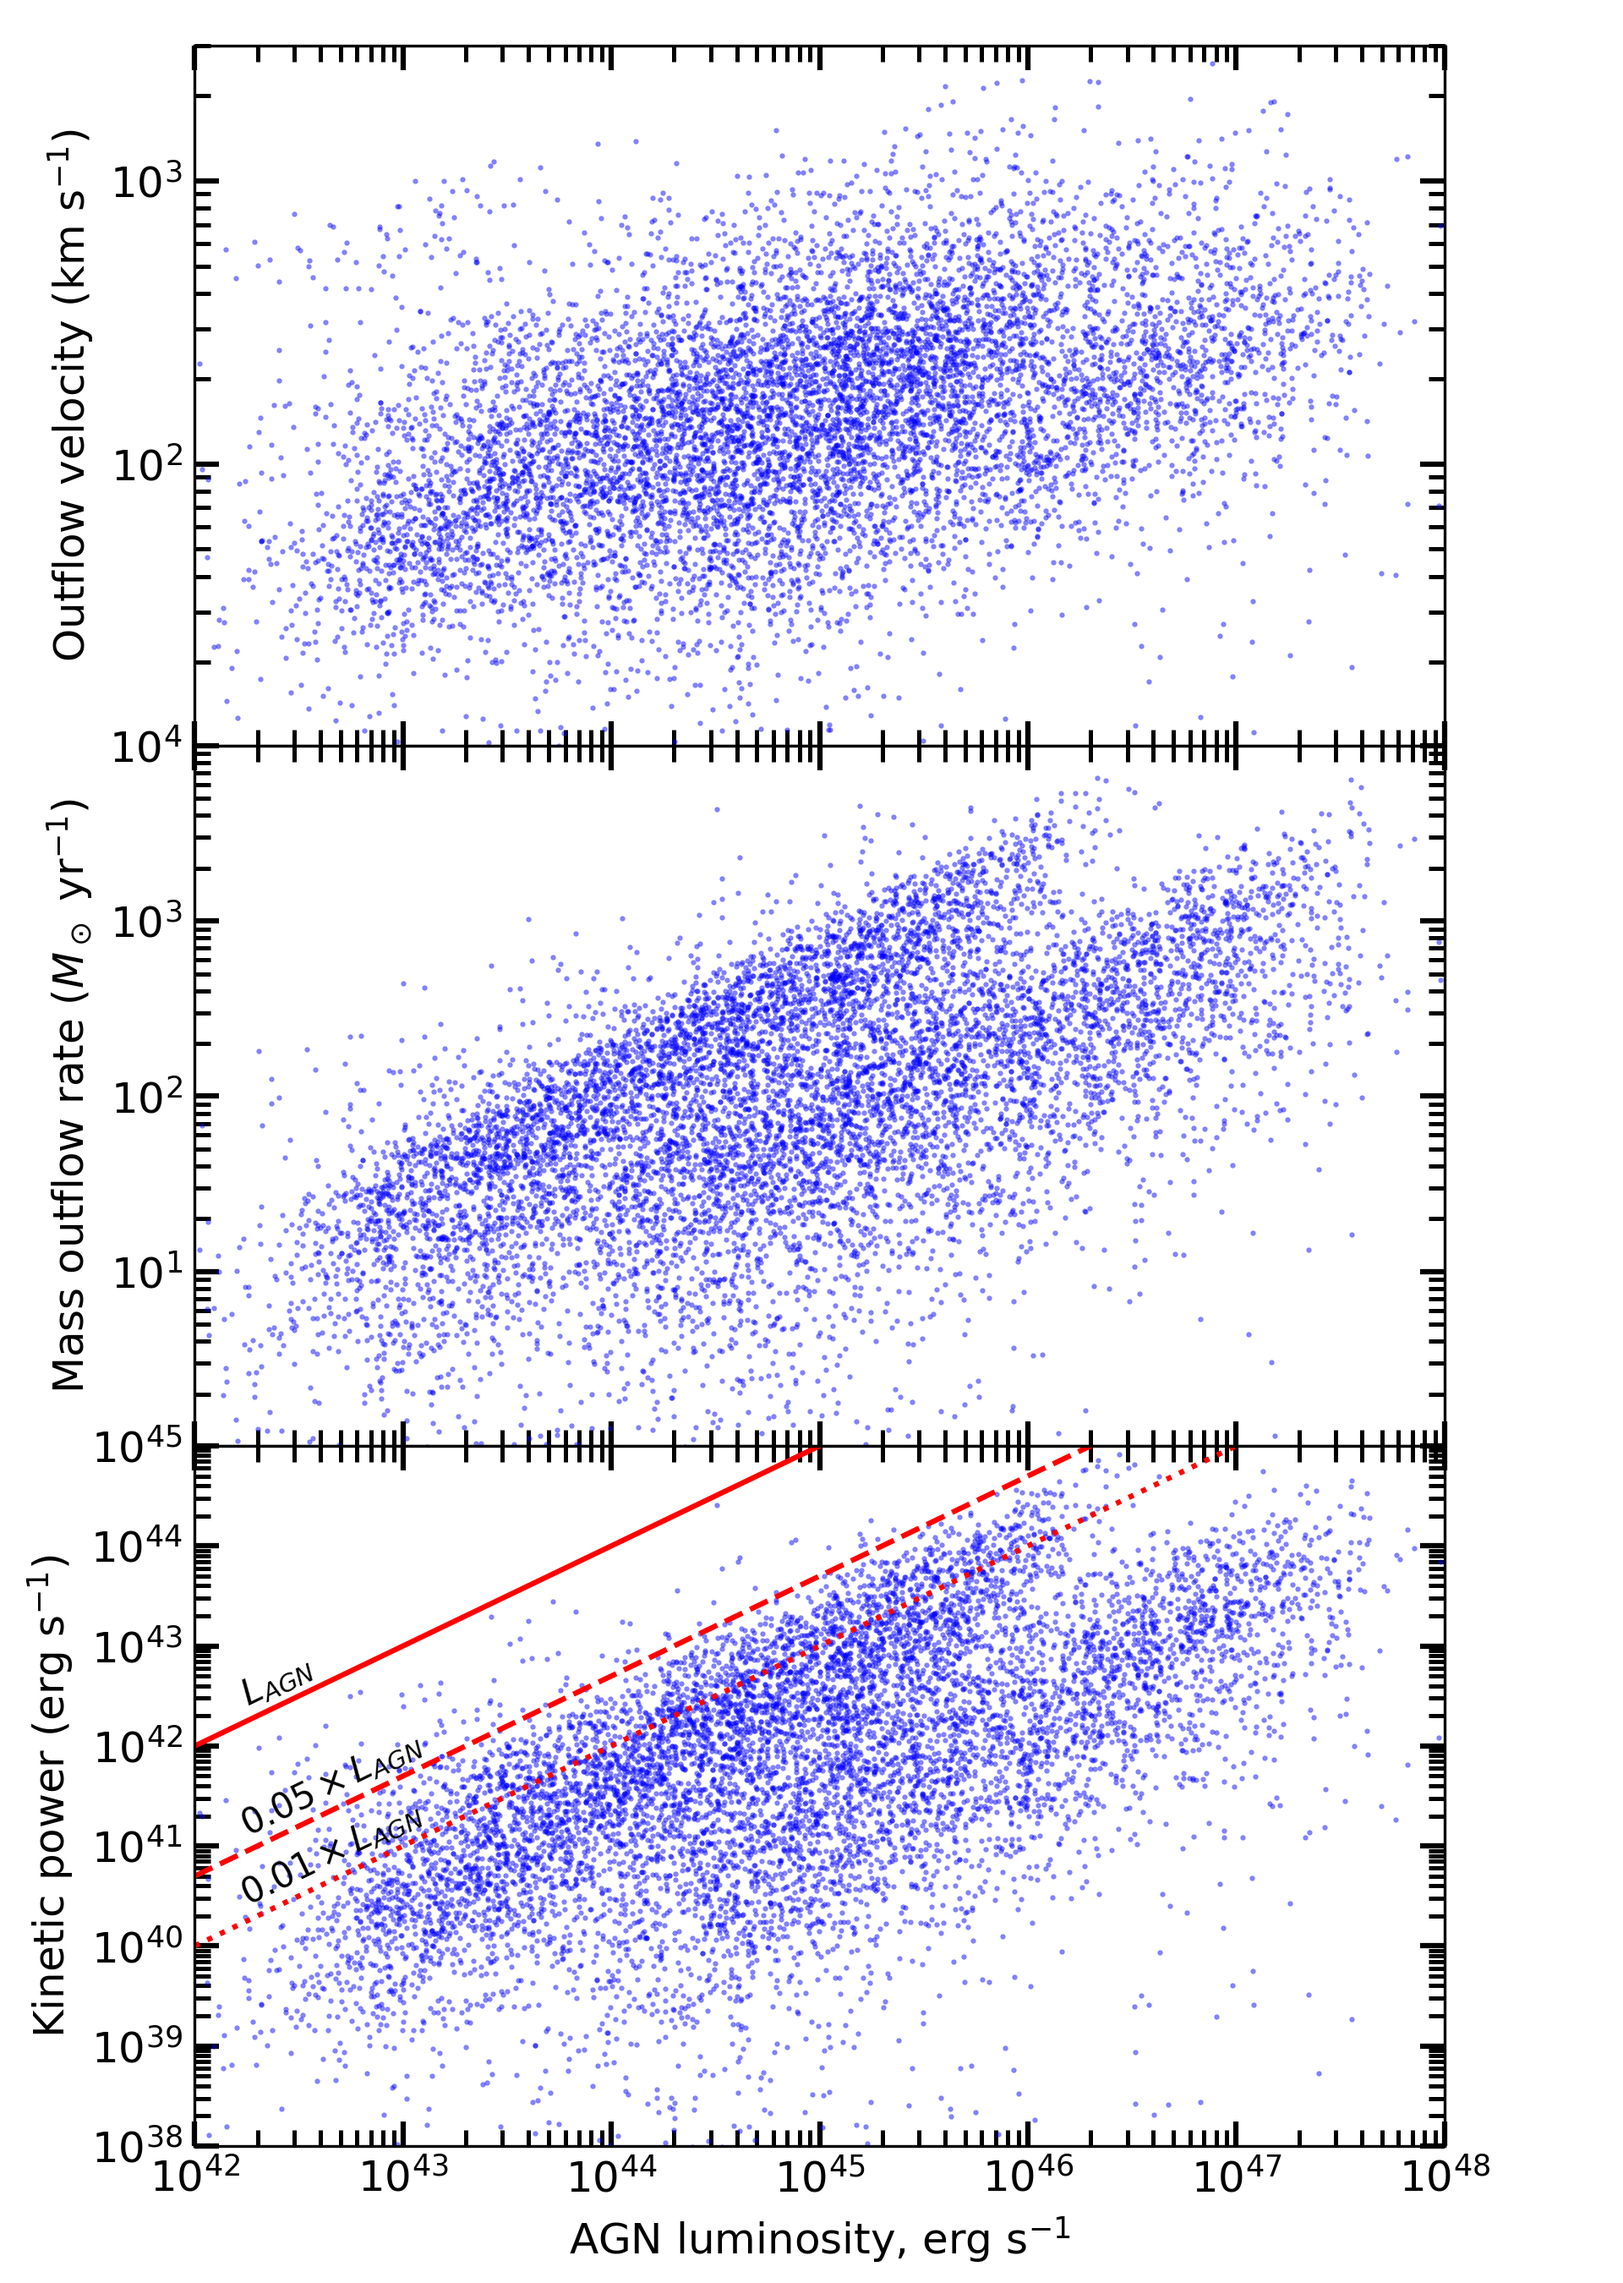
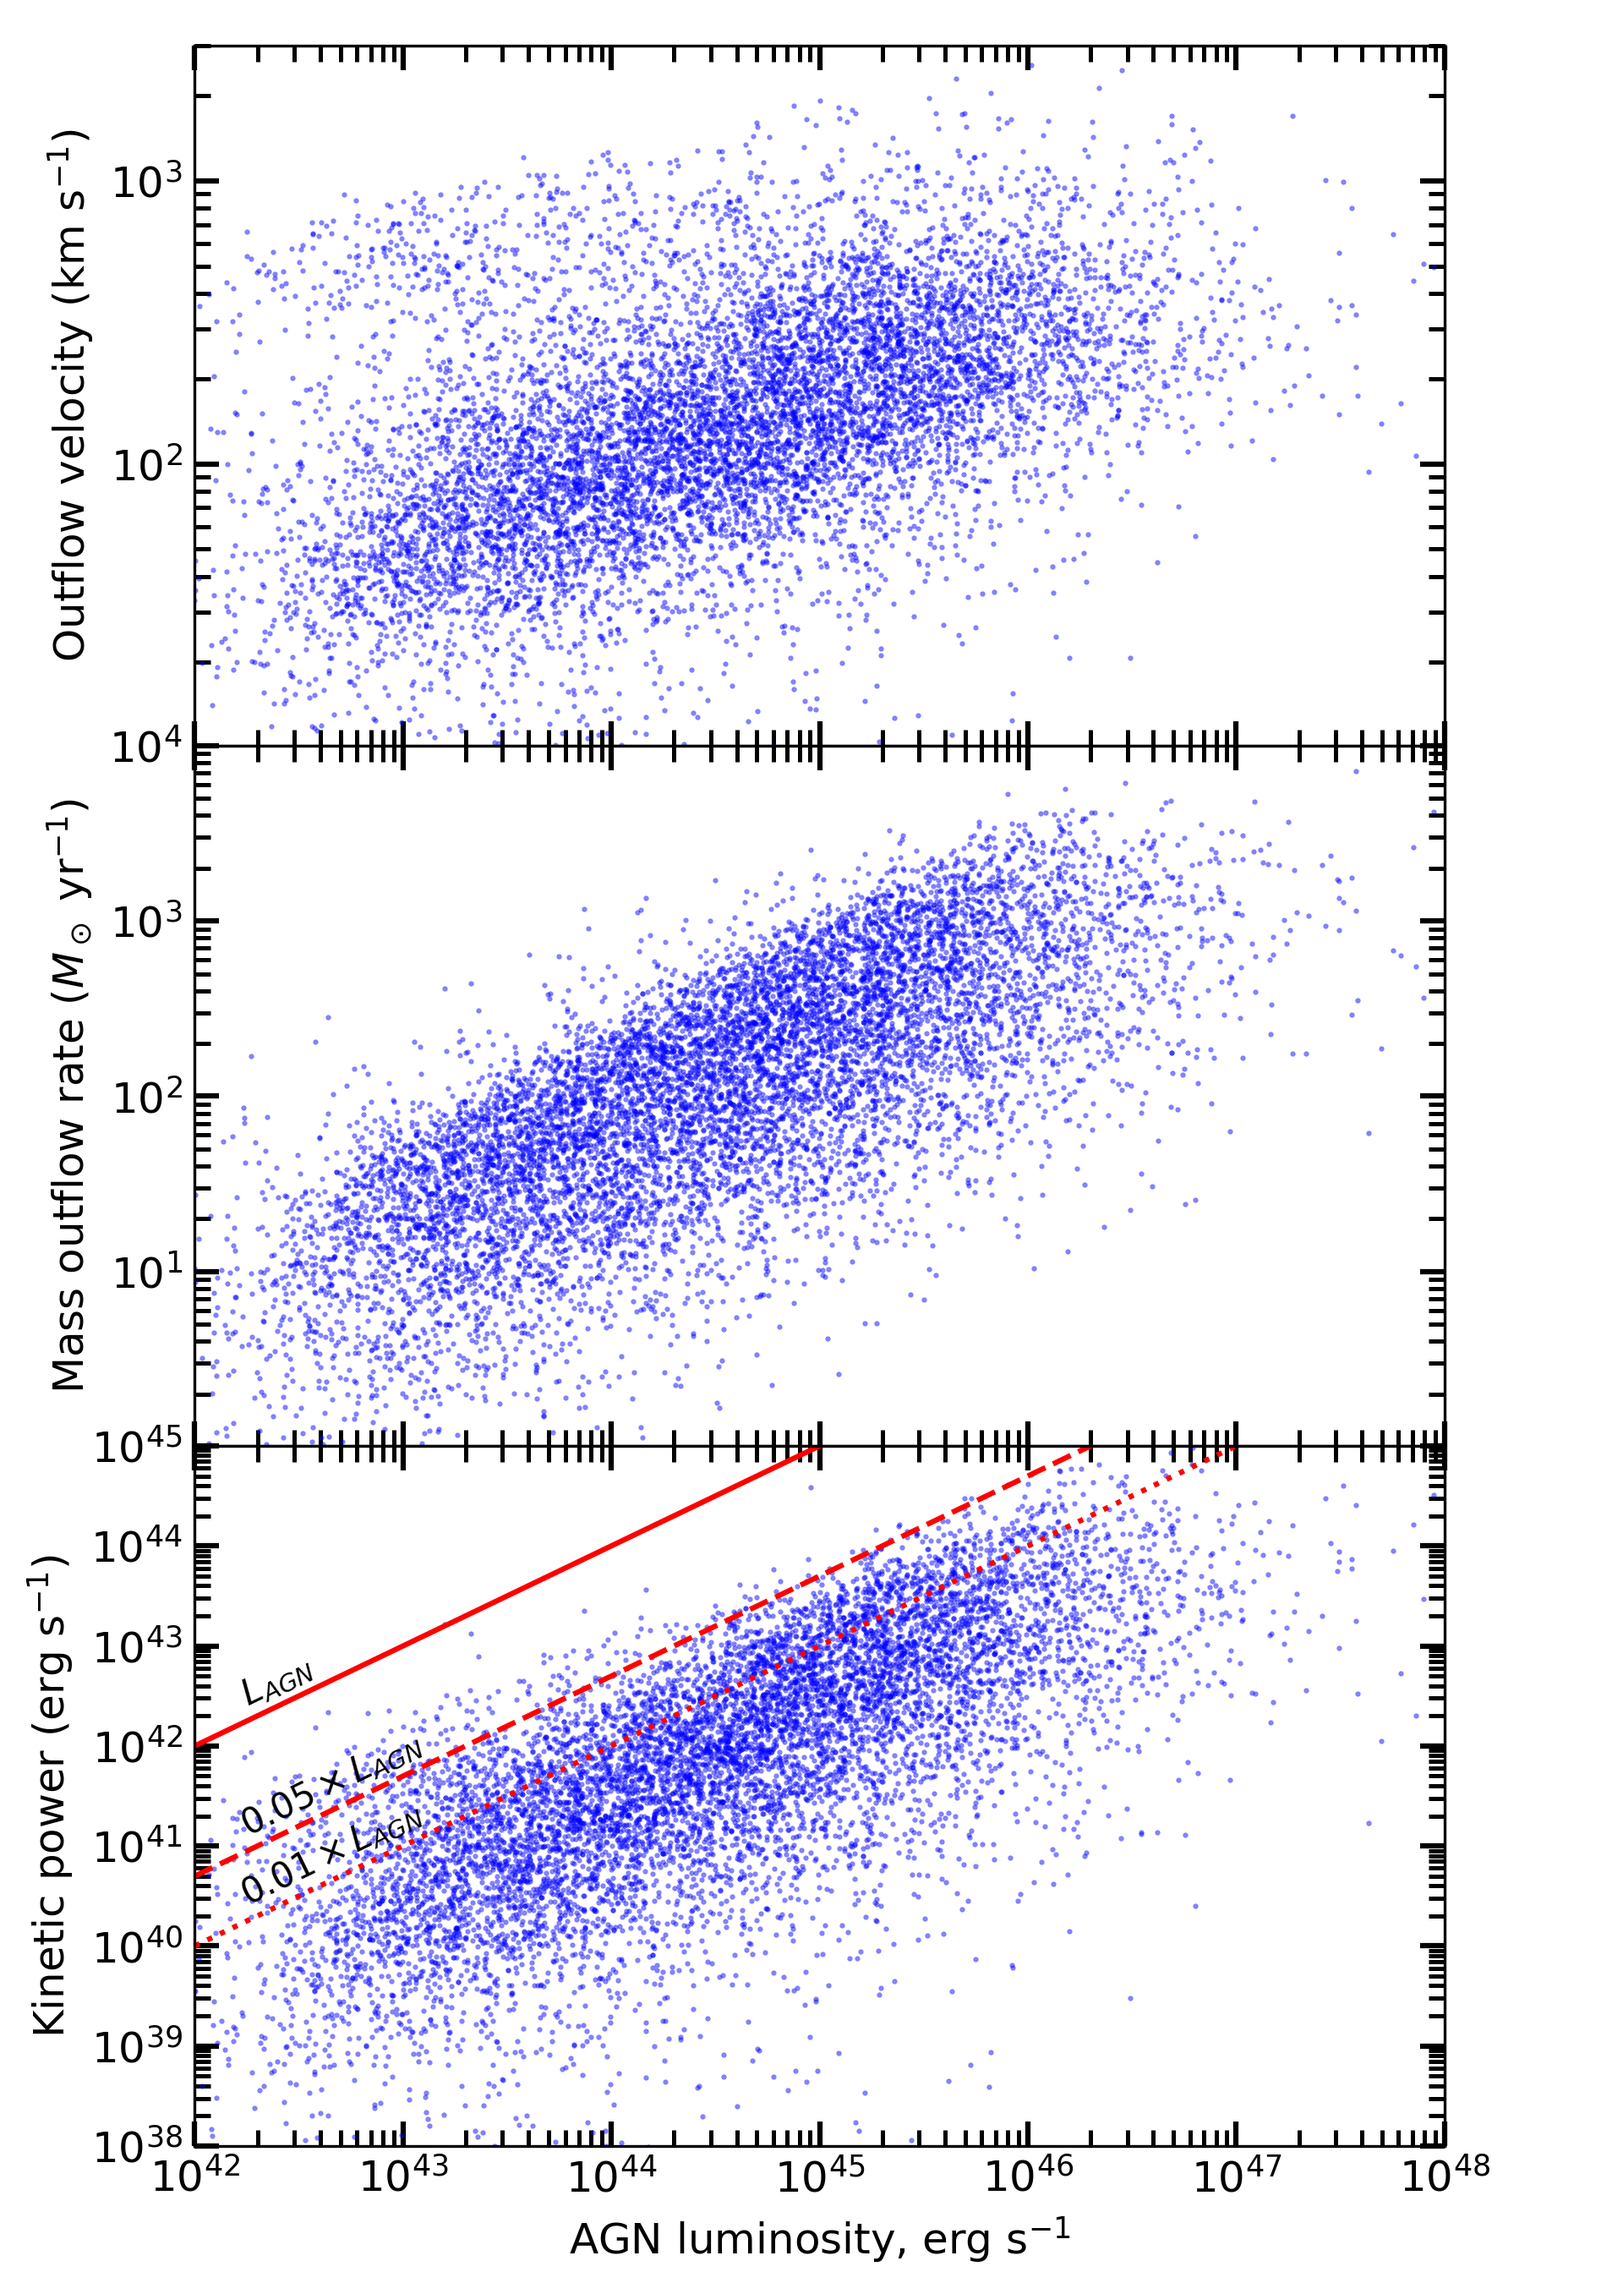
Figure and readme update
Updated the images due to the the random selection bugfix in simmulation.py. Added clarification to the readme file.

Changed region(s): [[0.125, 0.0622, 0.8438, 0.3111], [0.125, 0.3422, 0.8438, 0.6222], [0.125, 0.6533, 0.8438, 0.9333]]

diff --git a/README.md b/README.md
@@ -7,7 +7,14 @@ Magnofit is a library for running 1D outflow simulations of active galactic nucl
   <img src="figures/real_predictions.png" alt="Simulated outflow parameters" style="height:440px"/>
 </p>
 
-## Dependencies
+## Installation
+
+Create and activate virtual Python environment.
+
+```bash
+python -m venv magnofit
+source magnotif/bin/activate
+```
 
 [Poetry](https://python-poetry.org/) is used to install dependencies and manage the project's virtual environment.
 
